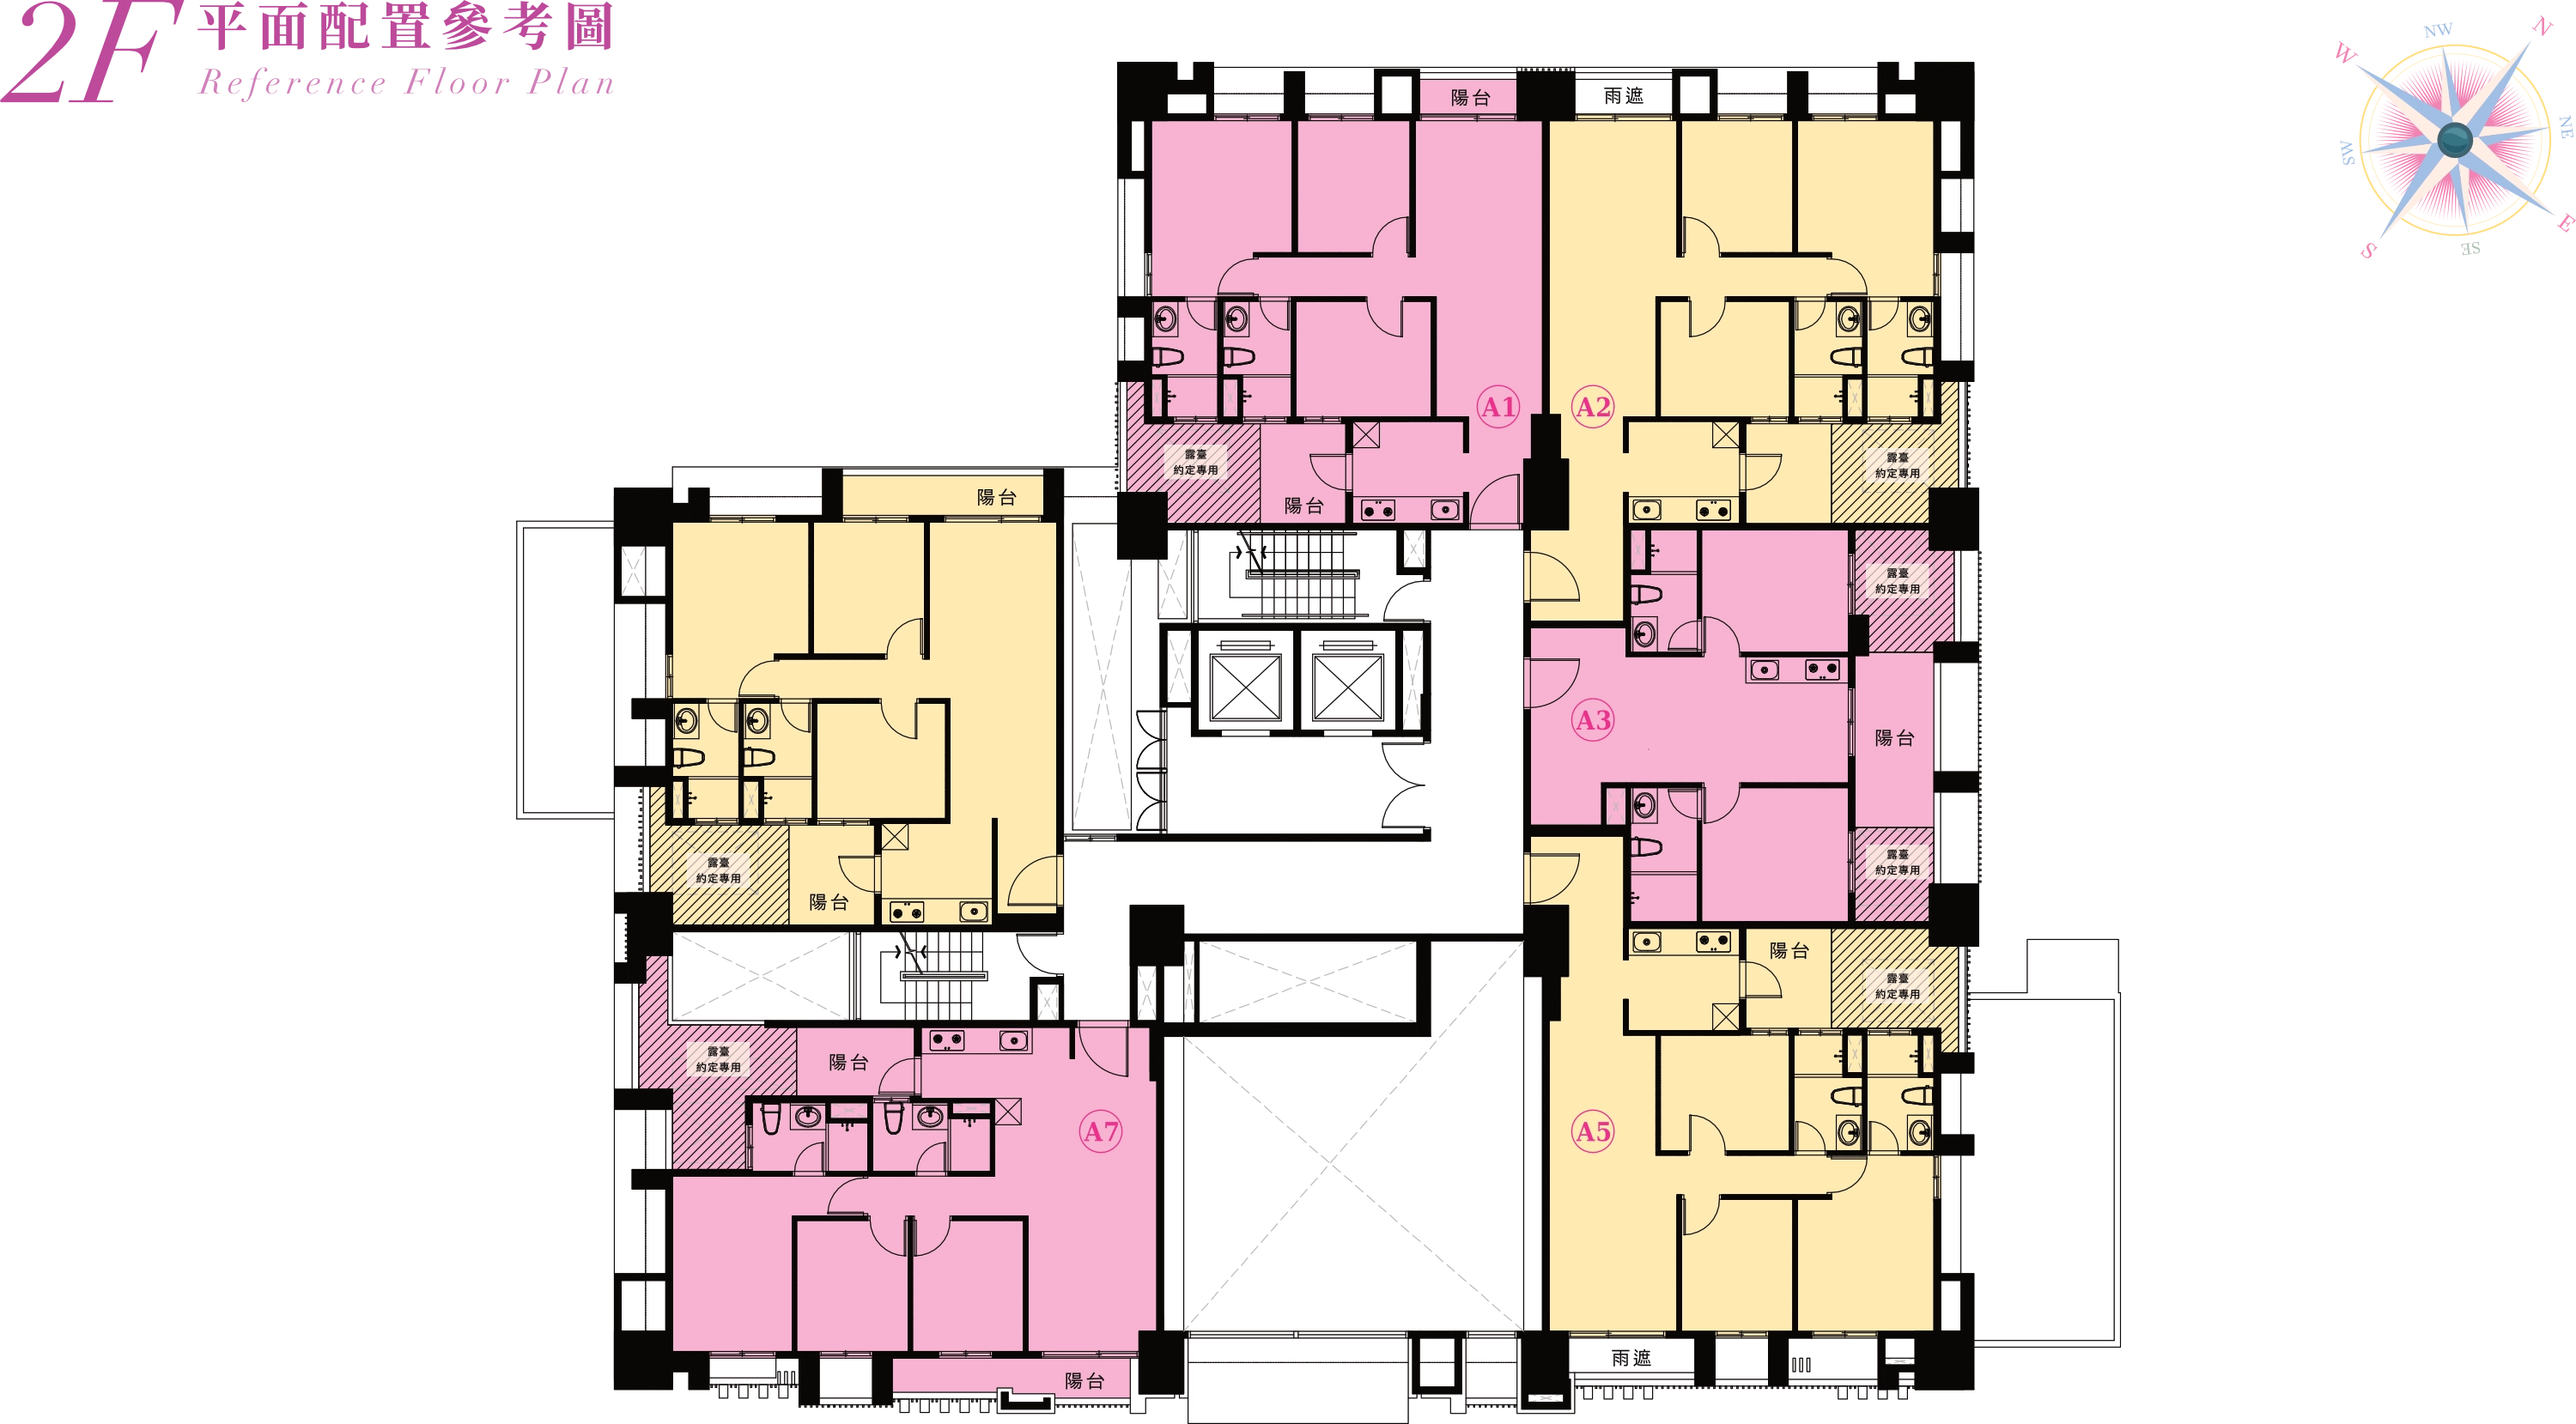
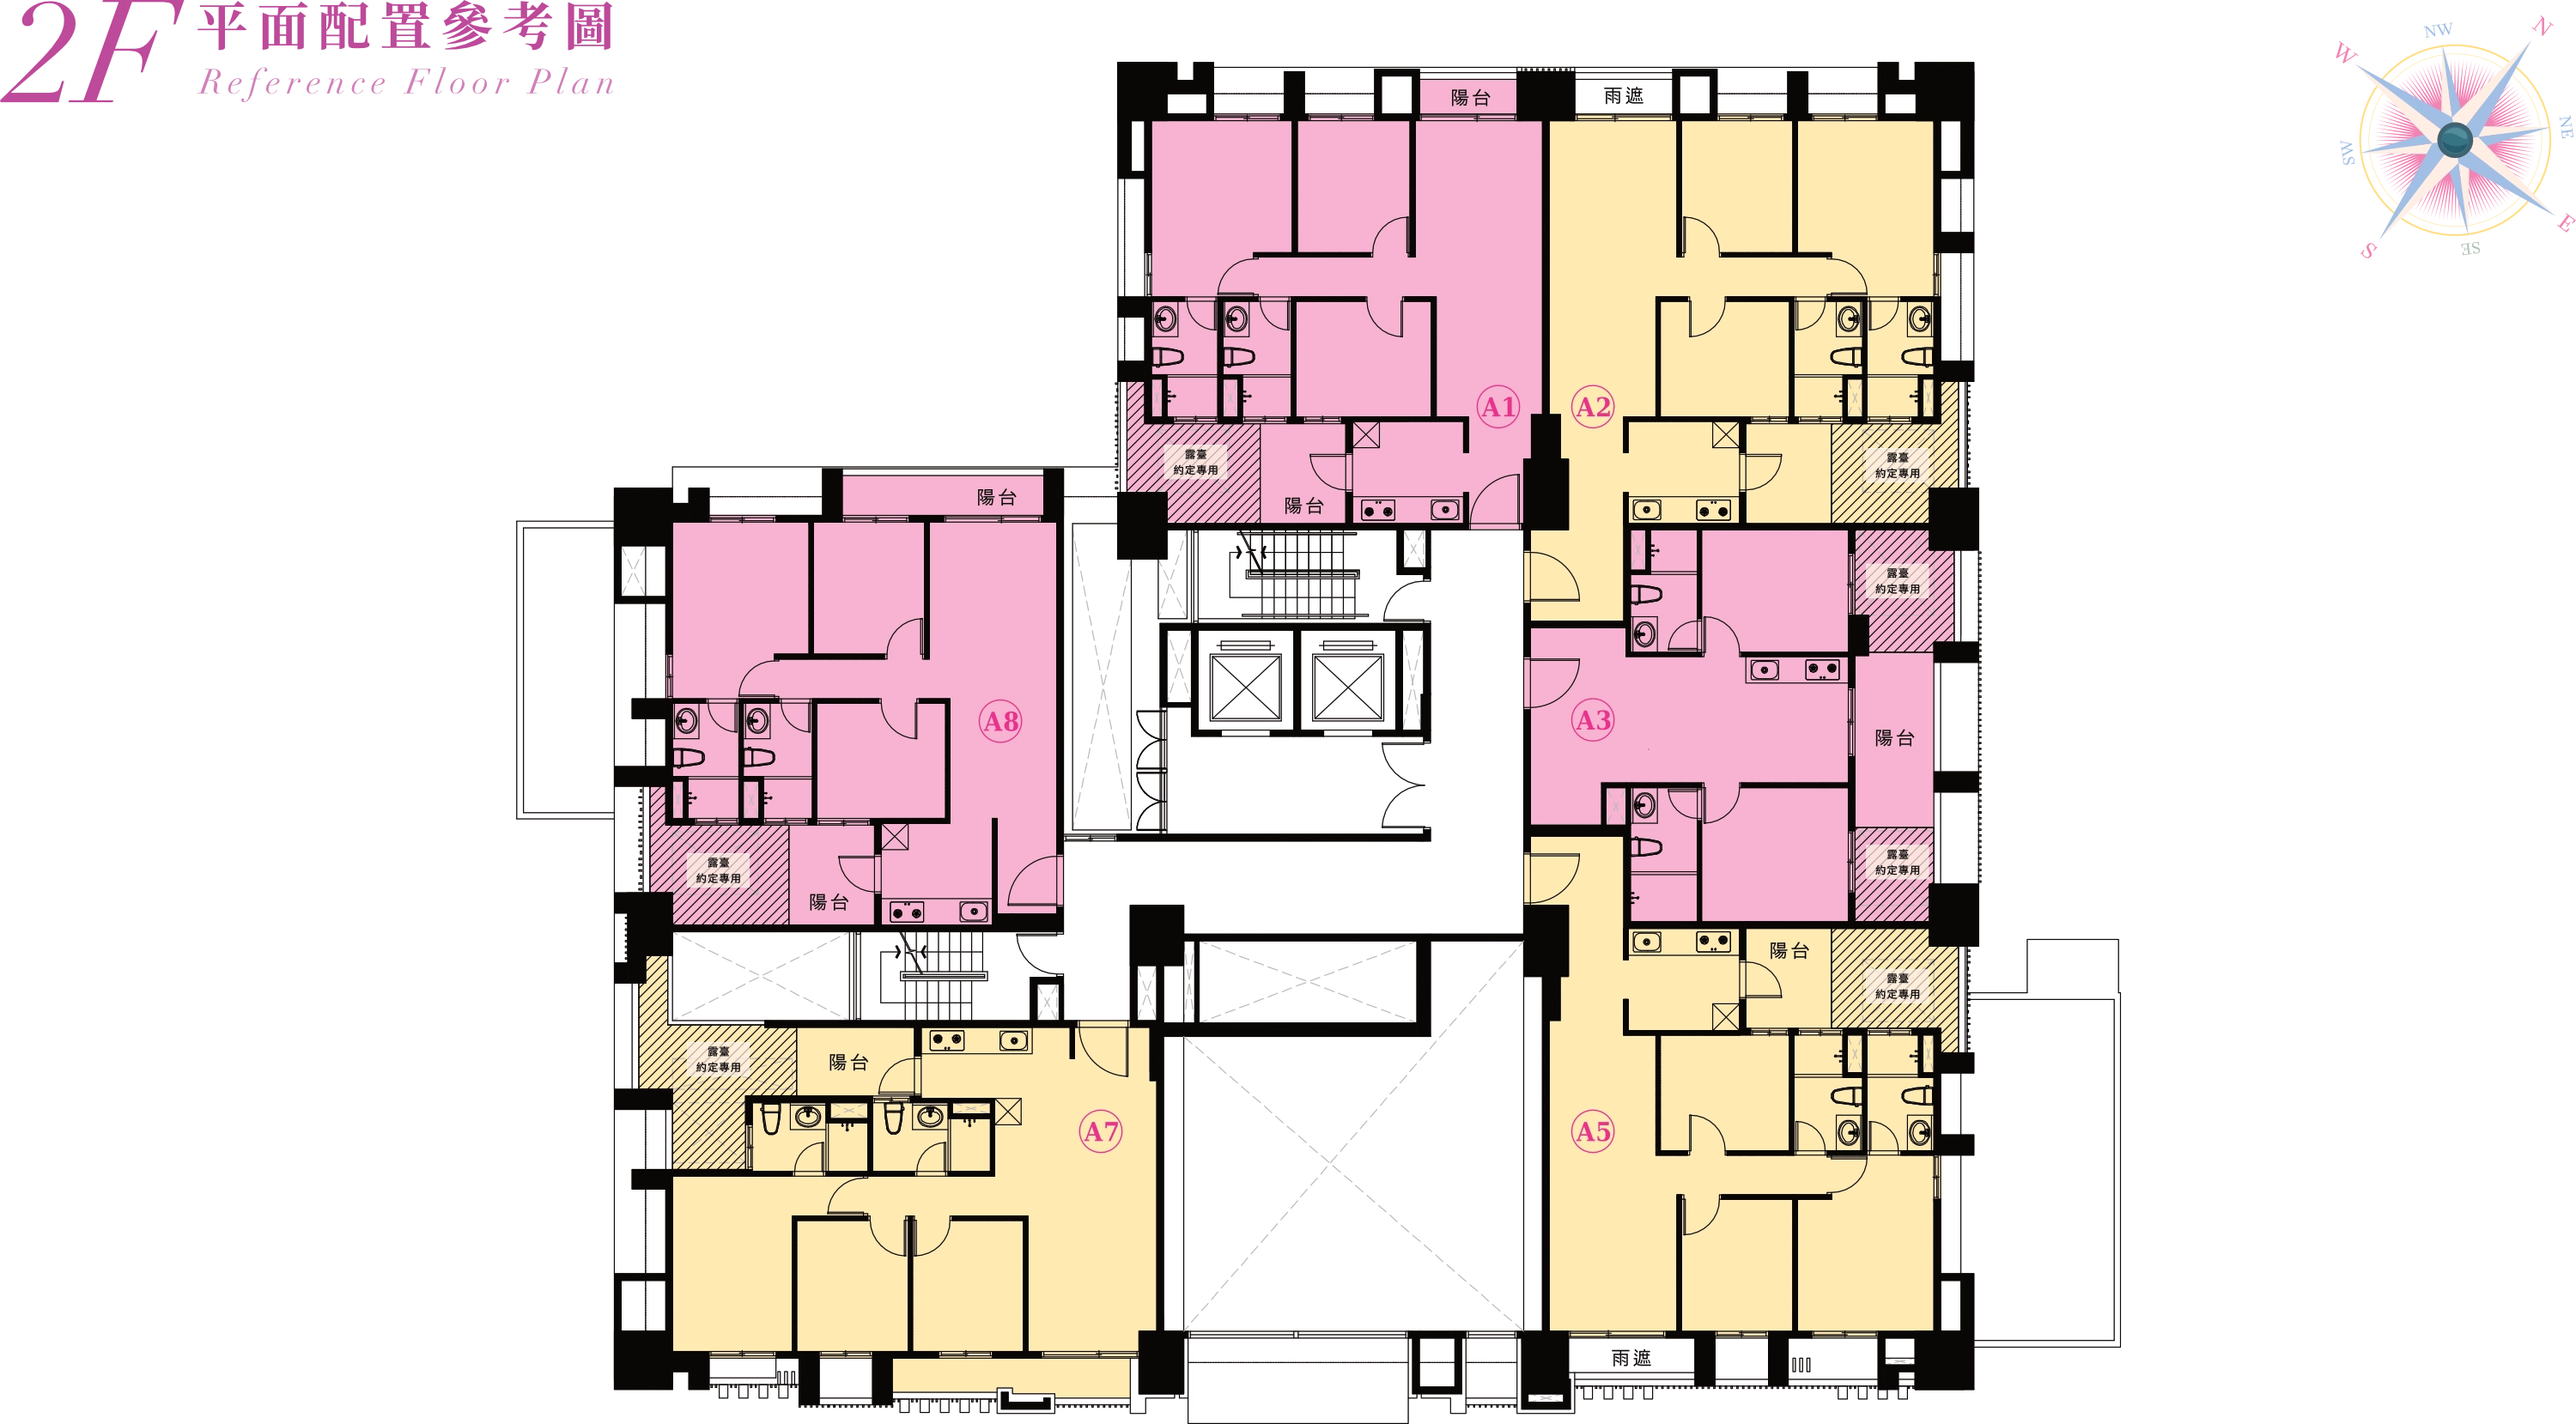
發布網站更新：基本資料新增開工日與交屋日、更新2F/3F平面圖

Changed region(s): [[0.248, 0.3074, 0.434, 0.6763], [0.248, 0.6763, 0.465, 0.9837]]

diff --git a/floor-plan.html b/floor-plan.html
@@ -755,7 +755,9 @@
                 { label: '電梯',     value: '15人份　速率 120 公尺/分鐘' },
                 { label: '車位售價', value: 'B1-325　B2-300　B3-275　B4-250' },
                 { label: '管理費',   value: '住家 90/坪　車位 300/個' },
-                { label: '學區',     value: '關東國小、新科國中、竹科實中、康橋國際學校(規劃中)' }
+                { label: '學區',     value: '關東國小、新科國中、竹科實中、康橋國際學校(規劃中)' },
+                { label: '開工日',   value: '2026年5月' },
+                { label: '交屋日',   value: '2034年第二季' }
             ];
 
             // 4-15F 列印版面座標。
